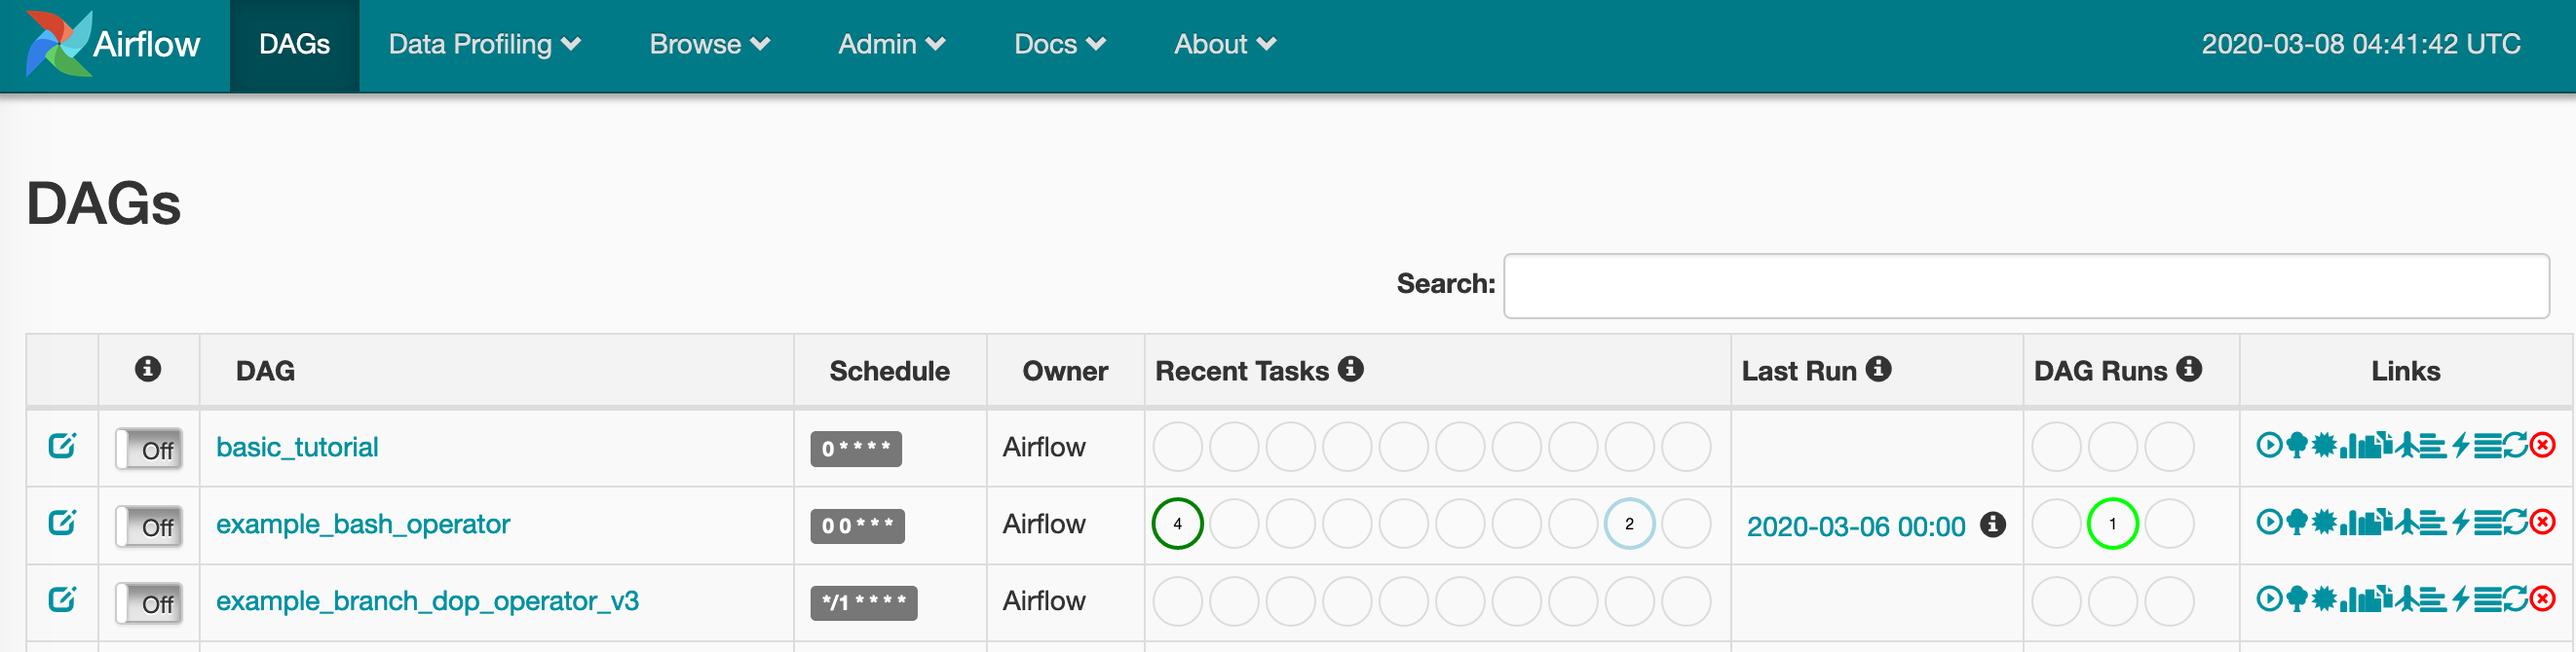
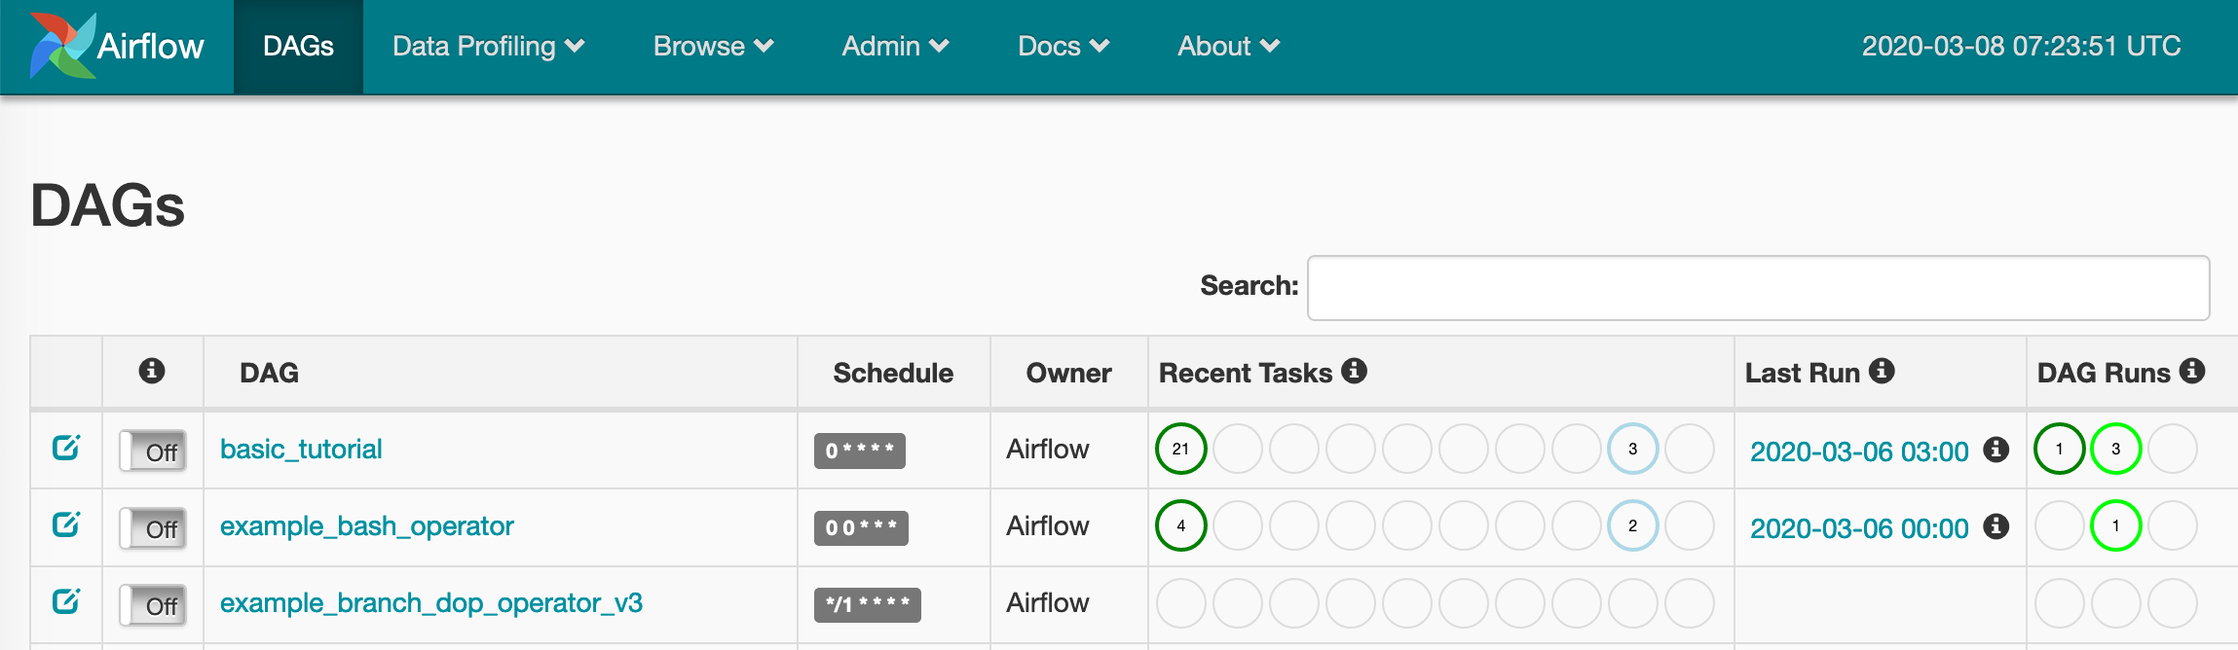
airflow

diff --git a/airflow_ops.md b/airflow_ops.md
@@ -155,7 +155,7 @@ UI를 설명한다.
 
 ![Airflow dashboard](.resources/airflow/dashboard.png)
 
-상단의 DAGs 메뉴 선택하면 보면 현재 등록된 DAG의 리스트와 요약된 상태의 대시보드가 나오며, airflow에 등록된 DAG의 운영상태를 한눈에 알 수 있다. 특이한 점은 오른쪽위의 시간이 UTC로 표시되는 것을 볼 수 있다. 스크린샷을 찍은 시점은 2020-03-07 23:47 KST이기 때문에 9시간의 차이가 나는데 이게 운영하다보면 은근히 헷갈린다.
+상단의 DAGs 메뉴 선택하면 보면 현재 등록된 DAG의 리스트와 요약된 상태의 대시보드가 나오며, airflow에 등록된 DAG의 운영상태를 한눈에 알 수 있다. 특이한 점은 오른쪽위의 시간이 UTC로 표시되는 것을 볼 수 있다. 스크린샷을 찍은 시점은 2020-03-08 16:23 KST이기 때문에 9시간의 차이가 나는데 이게 운영하다보면 은근히 헷갈린다.
 
 - `i` DAG의 on 스위치
 - `DAG` 등록된 dag 이름. 클릭하면 DAG 상세 페이지로 이동한다.
@@ -182,15 +182,54 @@ DAG 상세 페이지로 들어가보자.
 
 ### Task 실행 제어
 
-각 task의 박스를 클릭하면 다음과 같이 task를 제어할 수 있는 메뉴가 팝업된다. 아래는 2020-03-06 00:00 (UTC) 실행된 DAG의 run_after_loop을 클릭했을때 뜨는 팝업이다.
+각 task의 박스를 클릭하면 다음과 같이 task를 제어할 수 있는 메뉴가 팝업된다. 아래는 2020-03-06 01:00 (UTC) 실행된 DAG의 run_after_loop을 클릭했을때 뜨는 팝업이다.
 
 <figure align="middle">
   <img src=".resources/airflow/task_control_popup.png" width="500" title="Gantt Chart"/>
 </figure>
 
-주요한 몇가지만 살펴보자.
+기능이 많으니 주요한 몇가지만 살펴보자.
 
+#### Log
 
+Graph view에서 볼 수 있듯이 run_after_loop 태스크는 실행이 실패했다. 원인 분석을 위해서 view log를 클릭해보자.
+
+<details><summary>실행로그 </summary>
+
+```java
+*** Reading local file: /Users/youngrokko/airflow/logs/basic_tutorial_fail/run_after_loop/2020-03-06T01:00:00+00:00/1.log
+[2020-03-08 16:42:15,294] {taskinstance.py:655} INFO - Dependencies all met for <TaskInstance: basic_tutorial_fail.run_after_loop 2020-03-06T01:00:00+00:00 [queued]>
+[2020-03-08 16:42:15,304] {taskinstance.py:655} INFO - Dependencies all met for <TaskInstance: basic_tutorial_fail.run_after_loop 2020-03-06T01:00:00+00:00 [queued]>
+[2020-03-08 16:42:15,305] {taskinstance.py:866} INFO - 
+--------------------------------------------------------------------------------
+[2020-03-08 16:42:15,305] {taskinstance.py:867} INFO - Starting attempt 1 of 1
+[2020-03-08 16:42:15,305] {taskinstance.py:868} INFO - 
+--------------------------------------------------------------------------------
+[2020-03-08 16:42:15,312] {taskinstance.py:887} INFO - Executing <Task(BashOperator): run_after_loop> on 2020-03-06T01:00:00+00:00
+[2020-03-08 16:42:15,314] {standard_task_runner.py:53} INFO - Started process 13490 to run task
+[2020-03-08 16:42:15,368] {logging_mixin.py:112} INFO - Running %s on host %s <TaskInstance: basic_tutorial_fail.run_after_loop 2020-03-06T01:00:00+00:00 [running]> Youngrokui-MacBookPro.local
+[2020-03-08 16:42:15,385] {bash_operator.py:82} INFO - Tmp dir root location: 
+ /tmp
+[2020-03-08 16:42:15,386] {bash_operator.py:105} INFO - Temporary script location: /tmp/airflowtmp5d0zozkw/run_after_loopt40s_5r5
+[2020-03-08 16:42:15,387] {bash_operator.py:115} INFO - Running command: echo 1; sleep 5; exit 1
+[2020-03-08 16:42:15,392] {bash_operator.py:122} INFO - Output:
+[2020-03-08 16:42:15,395] {bash_operator.py:126} INFO - 1
+[2020-03-08 16:42:20,403] {bash_operator.py:130} INFO - Command exited with return code 1
+[2020-03-08 16:42:20,412] {taskinstance.py:1128} ERROR - Bash command failed
+Traceback (most recent call last):
+  File "/usr/local/lib/python3.7/site-packages/apache_airflow-1.10.9-py3.7.egg/airflow/models/taskinstance.py", line 966, in _run_raw_task
+    result = task_copy.execute(context=context)
+  File "/usr/local/lib/python3.7/site-packages/apache_airflow-1.10.9-py3.7.egg/airflow/operators/bash_operator.py", line 134, in execute
+    raise AirflowException("Bash command failed")
+airflow.exceptions.AirflowException: Bash command failed
+[2020-03-08 16:42:20,415] {taskinstance.py:1185} INFO - Marking task as FAILED.dag_id=basic_tutorial_fail, task_id=run_after_loop, execution_date=20200306T010000, start_date=20200308T074215, end_date=20200308T074220
+[2020-03-08 16:42:25,289] {logging_mixin.py:112} INFO - [2020-03-08 16:42:25,287] {local_task_job.py:103} INFO - Task exited with return code 1
+
+```
+
+ERROR
+
+</details>
 
 ## DAG 작성
 
